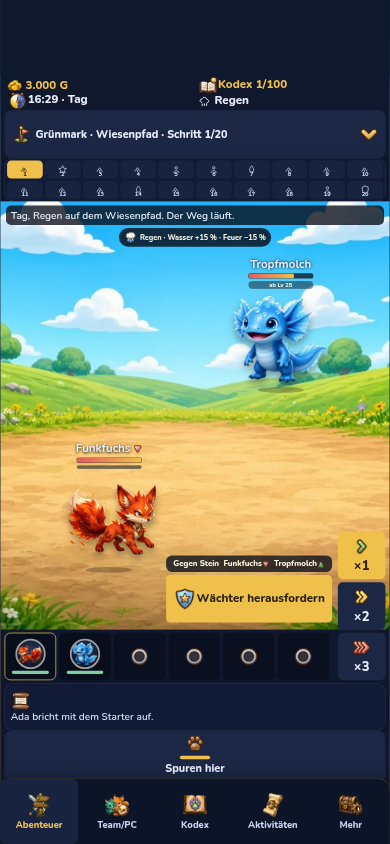
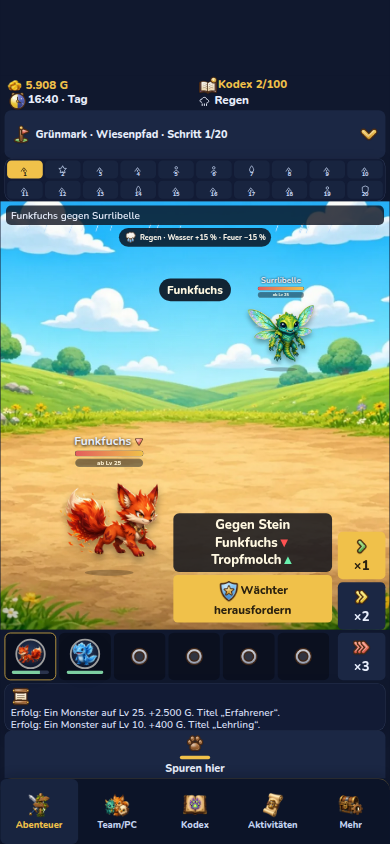
Kampf K6: Konter nur im echten Wächter-Einlauf, größere Karte.
Das Label erscheint, wenn nach einem eigenen K.o. ein typstarkes Monster gegen denselben Wächter kommt. Der Hinweis auf der Wächter-Karte ist bei 360 px mindestens 12 px, mit grünem ▲ und rotem ▼.

diff --git a/src/adventure/app.ts b/src/adventure/app.ts
@@ -109,6 +109,7 @@ let lastInput = Date.now()
 let timer = 0
 let animating = false
 let lastTick = 0
+let holdCounter = false
 let progressAt = Date.now()
 let raf = 0
 let playGen = 0
@@ -278,34 +279,23 @@ const REGION_TINT = [0x7dcea0, 0x7dcea0, 0x9ad7ff, 0xff8a3d, 0x7e57c2, 0xf0c14a]
 
 function showK6Demo(part: string | null): void {
   const kind = part === 'konter' ? 'konter' : part === 'karte' ? 'karte' : 'before'
+  holdCounter = kind === 'konter'
   save = beginAdventure('Ada', 'A', 'm01', Date.now())
-  screen = 'adventure'
   const lead = save.active
-  if (lead && save.mons[lead]) save.mons[lead].lvl = 25
-  if (kind === 'karte') {
+  if (lead && save.mons[lead]) {
+    save.mons[lead].lvl = kind === 'konter' ? 5 : 25
+    if (kind === 'konter') save.mons[lead].hp = 1
+  }
+  if (kind === 'karte' || kind === 'konter') {
     const water = `a${save.nextId}`
     save.nextId += 1
     save.mons[water] = { species: 'm02', lvl: 25, exp: 0, hp: null, shiny: false, caughtAt: 1, caughtWhere: 'r1c1', keepDupes: false }
     save.team.push(water)
+    save.dex.m02 = { seen: 1, caught: 1 }
   }
   save.settings.speed = 1
-  render()
-  const foeName = document.getElementById('foe-name')
-  if (foeName) setActorName(foeName, 'Tropfmolch')
-  const foeImg = document.getElementById('foe-sprite')
-  if (foeImg instanceof HTMLImageElement) {
-    foeImg.hidden = false
-    foeImg.src = monsterArt('m02', true)
-  }
-  const foeHp = document.getElementById('foe-hp')
-  if (foeHp) foeHp.style.width = '70%'
-  paintUlt('ally-ult', kind === 'konter' ? 2 : 0, true)
-  paintUlt('foe-ult', 0, false)
-  if (kind === 'konter') {
-    const label = document.getElementById('konter-label')
-    if (label) label.hidden = false
-  }
-  document.getElementById('battle')?.setAttribute('data-fx', 'hold')
+  if (kind === 'konter') challengeGuardian(save)
+  void start(save)
 }
 
 function showK5Demo(part: string | null): void {
@@ -884,6 +874,8 @@ function play(outcome: EncounterOutcome, speed: Speed, done: () => void): void {
   backstop = window.setTimeout(finishOnce, dur + 40)
   const k = tempoScale(speed)
   const started = performance.now()
+  let counterAt = -1
+  let frozen = -1
   const seal = document.getElementById('seal') as HTMLImageElement | null
   const allyHp = document.getElementById('ally-hp')
   const foeHp = document.getElementById('foe-hp')
@@ -920,7 +912,6 @@ function play(outcome: EncounterOutcome, speed: Speed, done: () => void): void {
   let allySeen = ''
   let enterAt = -1
   let dissolved = ''
-  let konterFor = ''
   const frame = (now: number) => {
     if (gen !== playGen) return
     if (!paintDue(now, drawnAt, battery)) {
@@ -929,8 +920,13 @@ function play(outcome: EncounterOutcome, speed: Speed, done: () => void): void {
     }
     drawnAt = now
     try {
-      const elapsed = now - started
+      let elapsed = now - started
+      if (frozen >= 0) elapsed = frozen
       const shot = shotAt(outcome.traces, Math.min(elapsed, battleEnd), battleEnd)
+      if (holdCounter && shot?.counter) {
+        if (counterAt < 0) counterAt = elapsed
+        if (frozen < 0 && elapsed - counterAt >= 320) frozen = elapsed
+      }
       if (shot && allyHp && foeHp) {
         allyHp.style.width = `${(shot.allyHp / shot.allyMax) * 100}%`
         foeHp.style.width = `${(shot.foeHp / shot.foeMax) * 100}%`
@@ -1012,10 +1008,8 @@ function play(outcome: EncounterOutcome, speed: Speed, done: () => void): void {
       paintMark('ally-status', shot?.allyMark ?? null, shot?.allyStacks ?? 0)
       paintMark('foe-status', shot?.foeMark ?? null, shot?.foeStacks ?? 0)
       const konter = document.getElementById('konter-label')
-      if (konter && shot?.counter && konterFor !== shot.allySpecies) {
-        konterFor = shot.allySpecies
-        konter.hidden = false
-        window.setTimeout(() => { konter.hidden = true }, 800)
+      if (konter) {
+        konter.hidden = !shot?.counter
       }
       if (foeKo >= 1 && shot && dissolved !== `foe-${shot.foeSpecies}` && fxHost && foeActor) {
         dissolved = `foe-${shot.foeSpecies}`
@@ -1065,7 +1059,7 @@ function play(outcome: EncounterOutcome, speed: Speed, done: () => void): void {
     }
   }
   const run = () => { raf = requestAnimationFrame(frame) }
-  if (outcome.boss?.species) showBossIntro(outcome.boss, run)
+  if (outcome.boss?.species && !holdCounter) showBossIntro(outcome.boss, run)
   else run()
 }
 

diff --git a/src/adventure/order.test.ts b/src/adventure/order.test.ts
@@ -4,7 +4,7 @@ import { fight1v1, type FightSide } from './battle'
 import { ENCOUNTER_MS } from './const'
 import { anchorIndex, orderMods, typeArrow } from './order'
 import { beginAdventure } from './save'
-import { pickFighter } from './sim'
+import { challengeGuardian, pickFighter, resolveEncounter } from './sim'
 
 function side(id: string, level: number, extra: Partial<FightSide> = {}): FightSide {
   const sp = species(id)
@@ -109,5 +109,27 @@ describe('order tactics', () => {
     save.mons[fire] = { species: 'm10', lvl: 40, exp: 0, hp: null, shiny: false, caughtAt: 1, caughtWhere: 'r1c1', keepDupes: false }
     save.team.push(fire)
     expect(pickFighter(save, 'plant')).toBe(water)
+  })
+
+  it('counters only after a knockout against the same guardian', () => {
+    const save = beginAdventure('Ada', 'A', 'm01', 1)
+    const lead = save.active
+    if (!lead) throw new Error('starter')
+    save.mons[lead].lvl = 5
+    save.mons[lead].hp = 1
+    const water = `a${save.nextId}`
+    save.nextId += 1
+    save.mons[water] = { species: 'm02', lvl: 25, exp: 0, hp: null, shiny: false, caughtAt: 1, caughtWhere: 'r1c1', keepDupes: false }
+    save.team.push(water)
+    challengeGuardian(save)
+    const outcome = resolveEncounter(save, 1, { offline: true, trace: true })
+    expect(outcome.kind).toBe('guardian')
+    expect(outcome.traces[0]?.allySpecies).toBe('m01')
+    expect(outcome.traces[0]?.counter).toBeFalsy()
+    const counter = outcome.traces.find((trace) => trace.counter)
+    expect(counter?.allySpecies).toBe('m02')
+    expect(counter?.foeSpecies).toBe('m17')
+    // Chapter 1 caps the bout at level 12, so the extra segments stay locked.
+    expect(counter?.frames[0]?.allyUlt).toBe(0)
   })
 })

diff --git a/src/adventure/adventure.css b/src/adventure/adventure.css
@@ -357,17 +357,18 @@ textarea { width: 100%; box-sizing: border-box; background: #121a30; color: inhe
 .guard-dock {
   position: absolute; right: 160px; bottom: 20px; z-index: 4;
   display: flex; flex-direction: column; align-items: stretch; gap: 8px;
-  width: 460px; max-width: 46%; pointer-events: auto;
+  width: 440px; max-width: 440px; pointer-events: auto;
 }
 .guard-card {
   box-sizing: border-box; display: flex; flex-wrap: wrap; justify-content: center;
-  align-items: center; gap: 6px 12px; padding: 8px 12px; border-radius: 16px;
-  background: rgba(8, 12, 24, 0.78); color: #fff8e1; font-weight: 800; font-size: 22px;
+  align-items: center; gap: 4px 16px; padding: 10px 14px; border-radius: 16px;
+  background: rgba(8, 12, 24, 0.82); color: #fff8e1; font-weight: 800; font-size: 36px; line-height: 1.25;
 }
-.guard-card img { width: 22px; height: 22px; vertical-align: middle; }
+.guard-card .up { color: #69f0ae; }
+.guard-card .down { color: #ff5252; }
 .konter-label {
-  margin: 0 0 6px; padding: 4px 14px; border-radius: 999px; background: #ffd54f; color: #1a1208;
-  font-weight: 900; font-size: 28px; line-height: 1.2;
+  margin: 0 0 8px; padding: 6px 16px; border-radius: 999px; background: #ffd54f; color: #1a1208;
+  font-weight: 900; font-size: 36px; line-height: 1.2;
 }
 .konter-label[hidden] { display: none; }
 .name-banner, .boss-intro, .victory {

diff --git a/src/adventure/view.ts b/src/adventure/view.ts
@@ -362,9 +362,9 @@ function guardCard(save: SaveV2): string {
     if (!mon) return []
     const arrow = typeArrow(species(mon.species).type, foeType)
     const mark = arrow === 'up'
-      ? `<img src="${art('battle/stat_up.png')}" alt=""/>`
+      ? `<b class="up">▲</b>`
       : arrow === 'down'
-        ? `<img src="${art('battle/stat_down.png')}" alt=""/>`
+        ? `<b class="down">▼</b>`
         : ''
     return [`<span>${esc(species(mon.species).name)}${mark}</span>`]
   }).join('')
